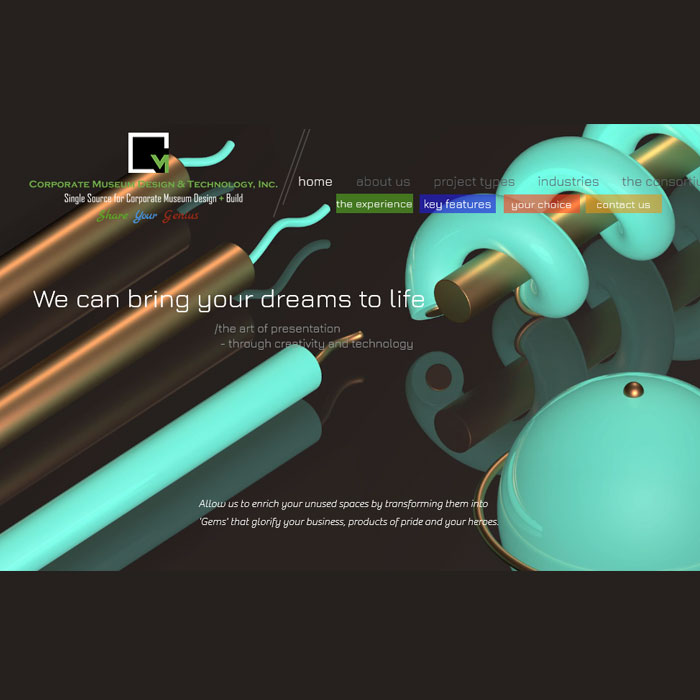
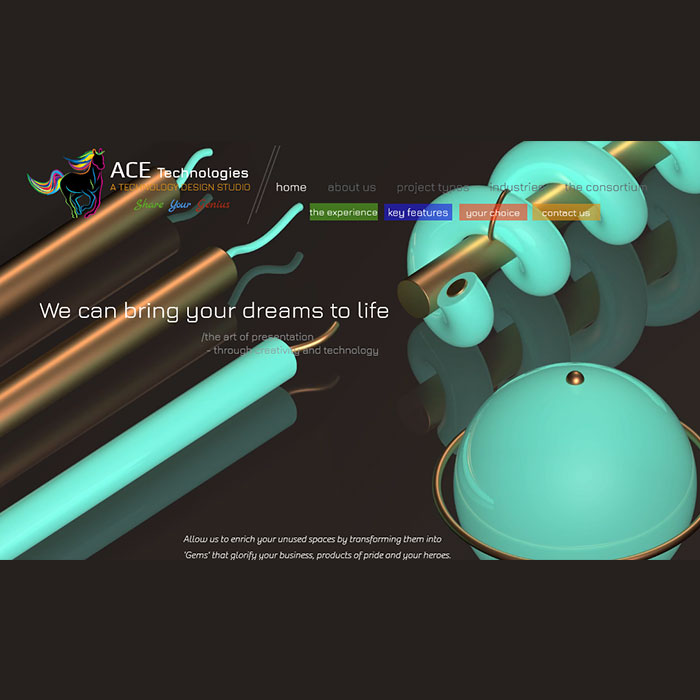
Updated company links and remove video button

Changed region(s): [[0.0, 0.18, 1.0, 0.84], [0.81, 0.66, 0.84, 0.69], [0.42, 0.18, 0.45, 0.21]]

diff --git a/index.html b/index.html
@@ -130,11 +130,11 @@
                         <!--<div class="btn-floating btn-large add-btn"><i class="material-icons">add</i></div>-->
 
                         <!--VIDEO PLAY BUTTON-->
-                        <div id="button-holder" class="btn-holder">
+                        <!-- <div id="button-holder" class="btn-holder">
                             <div id="play-btn" class="btn-floating btn-large btn-play">
                                 <i id="icon-play" class="material-icons">play_arrow</i>
                             </div>
-                        </div>
+                        </div> -->
                     </div>
                     <!--VIDEO CLOSE BUTTON-->
                     <div id="close-btn" class="btn-floating icon-close">
@@ -869,12 +869,12 @@
                         <figure class="port-effect-up">
                             <img src="images/portfolios/company-port-1-thumb.jpg" class="img-responsive" alt="portfolio-demo" />
                             <figcaption>
-                                <h2>www.CorporateMuseumDesigner.com</h2>
-                                <p>Corporate Museum Design & Technology, Inc. is a Technology Design Studio where you can bring your dreams to realization through
+                                <h2>AceTechDesigns.com</h2>
+                                <p>AceTechDesigns is a Technology Design Studio where you can bring your dreams to realization through
                                 technology. It specializes in designing and creating interactive high technology exhibits for the healthcare and other industries
                                 demonstrating their product line up, functionality and their history to be installed at Museums, Trade Shows and Corporate
                                 Headquarters.</p>
-                                <a href="images/portfolios/company-port-1.jpg" class="popup-image" data-effect="mfp-move-from-top">View more</a>
+                                <a target="_blank" href="https://www.acetechdesigns.com/">View more</a>
                             </figcaption>
                         </figure>
                     </div>
@@ -886,7 +886,7 @@
                             <figcaption>
                                 <h2>www.tisociety.com</h2>
                                 <!-- <p></p> -->
-                                <a href="images/portfolios/company-port-2.jpg" class="popup-image" data-effect="mfp-3d-unfold">View more</a>
+                                <a target="_blank" href="https://www.tisociety.com/">View more</a>
                             </figcaption>
                         </figure>
                     </div>
@@ -897,7 +897,7 @@
                             <figcaption>
                                 <h2>www.AIHGlobalReps.com</h2>
                                 <!-- <p></p> -->
-                                <a href="images/portfolios/company-port-3.jpg" class="popup-image" data-effect="mfp-3d-unfold">View more</a>
+                                <a target="_blank" href="https://www.aihglobalreps.com/">View more</a>
                             </figcaption>
                         </figure>
                     </div>
